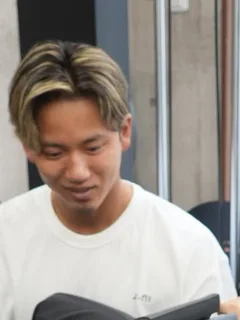
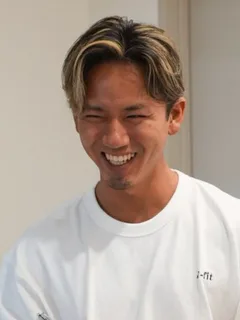
トレーナー写真を笑顔のカットに差し替え、体験の流れにカウンセリング写真を追加
Claude-Session: https://claude.ai/code/session_01VLktjvrdgsfkCCq3KCnYVP

diff --git a/index.html b/index.html
@@ -145,6 +145,7 @@ header .area{margin-left:auto;font-size:.75rem;color:var(--ink-2)}
 .faq details p{margin:0;padding:0 16px 14px;font-size:.9rem;color:var(--ink-2);line-height:1.7}
 
 /* flow */
+.flow-img{width:100%;border-radius:8px;margin-top:18px}
 .flow{list-style:none;padding:0;margin:22px 0 0;counter-reset:s;display:grid;gap:0}
 .flow li{counter-increment:s;position:relative;padding:0 0 20px 46px}
 .flow li::before{content:counter(s);position:absolute;left:0;top:0;width:30px;height:30px;border-radius:50%;background:var(--ink);color:#fff;
@@ -343,6 +344,7 @@ footer{padding-block:24px;text-align:center;font-size:.75rem;color:var(--ink-2)}
   <div class="wrap">
     <p class="eyebrow">無料体験の流れ（50分）</p>
     <h2>まずは一度、体を見せてください</h2>
+    <img class="flow-img" src="img/counseling.webp" alt="カウンセリングで会員の話を聞きながらメモを取る理学療法士" width="720" height="540" loading="lazy">
     <ol class="flow">
       <li><strong>LINEで友だち追加</strong><span>届いたメッセージのボタンを押すだけ。空いている日時をこちらからお送りします。</span></li>
       <li><strong>カウンセリング</strong><span>目的や体の気になるところ、運動歴をお聞きします。</span></li>
